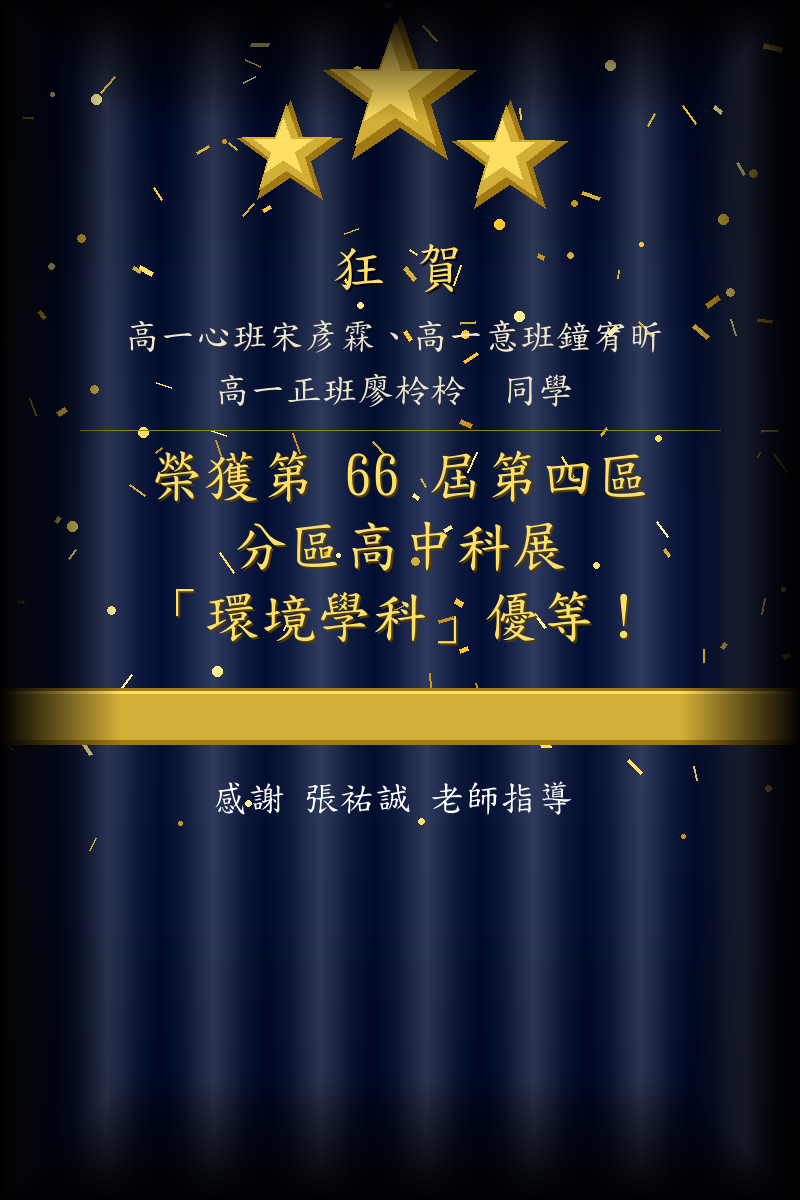
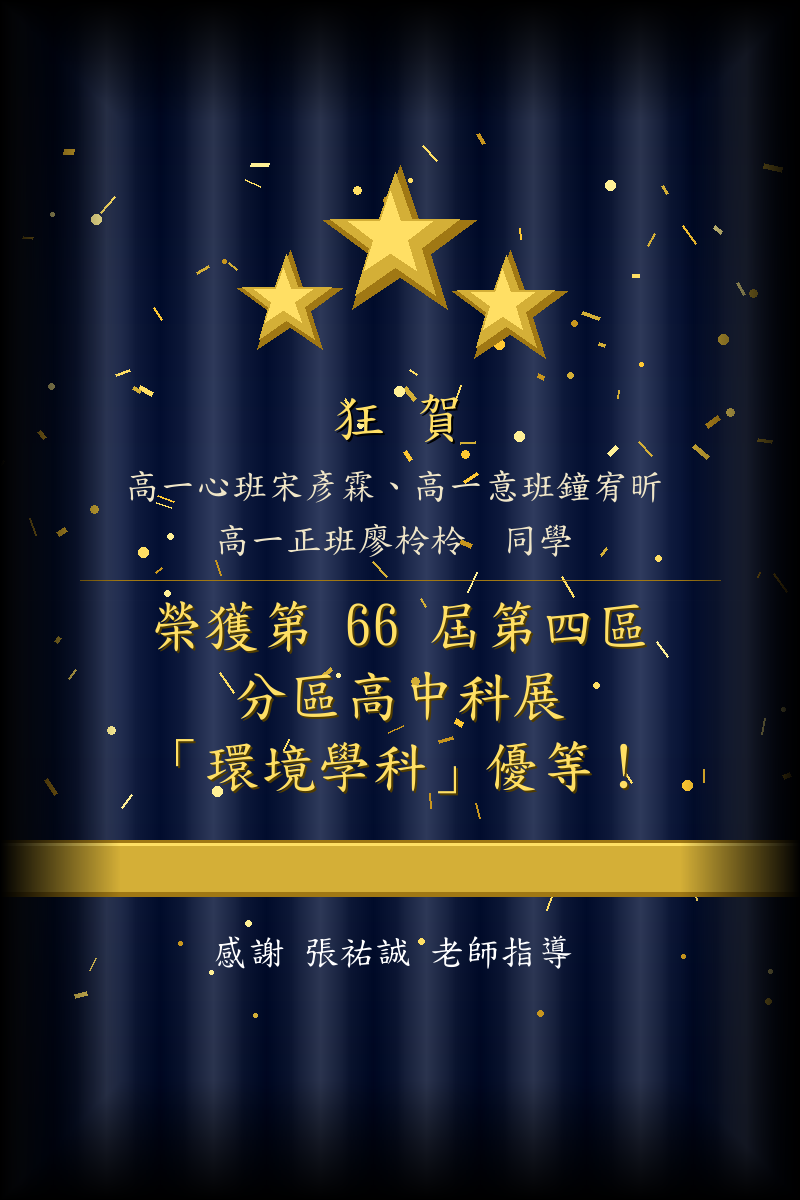
調整海報版面：內容整體下移、底部留白縮短

diff --git a/make_award_poster.py b/make_award_poster.py
@@ -63,7 +63,7 @@ def draw_confetti(draw, n=120):
     colors = [GOLD, GOLD_LIGHT, (255,200,50), (255,240,150), (200,150,30)]
     for _ in range(n):
         x = rng.randint(0, W)
-        y = rng.randint(0, int(H*0.7))
+        y = rng.randint(int(H*0.1), int(H*0.85))
         c = rng.choice(colors)
         kind = rng.randint(0, 2)
         if kind == 0:   # 小矩形彩帶
@@ -105,10 +105,10 @@ def draw_star_3d(draw, cx, cy, r_out, r_in):
     hi = star_polygon(cx-r_out*0.12, cy-r_out*0.12, r_out*0.55, r_in*0.55)
     draw.polygon(hi, fill=GOLD_LIGHT)
 
-# 三顆星：左小、右中、中大（頂部）
-draw_star_3d(draw, 290, 155, 55, 22)   # 左
-draw_star_3d(draw, 510, 160, 60, 24)   # 右
-draw_star_3d(draw, 400,  95, 80, 32)   # 中（最大，最高）
+# 三顆星：左小、右中、中大（整體下移 150px）
+draw_star_3d(draw, 290, 305, 55, 22)   # 左
+draw_star_3d(draw, 510, 310, 60, 24)   # 右
+draw_star_3d(draw, 400, 245, 80, 32)   # 中（最大，最高）
 
 # ── 5. 文字 ──────────────────────────────────────────────
 def centered_text(draw, text, y, font, fill):
@@ -129,22 +129,22 @@ f_achiev = load_font(56)
 f_thanks = load_font(36)
 
 # 「狂賀」
-shadow_text(draw, "狂 賀", 240, f_crazy, GOLD_LIGHT)
+shadow_text(draw, "狂 賀", 390, f_crazy, GOLD_LIGHT)
 
 # 學生姓名（兩行）
-centered_text(draw, "高一心班宋彥霖、高一意班鐘宥昕", 318, f_names, OFF_WHITE)
-centered_text(draw, "高一正班廖柃柃  同學", 372, f_names, OFF_WHITE)
+centered_text(draw, "高一心班宋彥霖、高一意班鐘宥昕", 468, f_names, OFF_WHITE)
+centered_text(draw, "高一正班廖柃柃  同學", 522, f_names, OFF_WHITE)
 
 # 分隔細線
-draw.line([(80, 430), (W-80, 430)], fill=GOLD_DARK, width=1)
+draw.line([(80, 580), (W-80, 580)], fill=GOLD_DARK, width=1)
 
 # 主要成就（金色大字）
-shadow_text(draw, "榮獲第 66 屆第四區", 448, f_achiev, GOLD_LIGHT, shadow=(80,60,0))
-shadow_text(draw, "分區高中科展", 518, f_achiev, GOLD_LIGHT, shadow=(80,60,0))
-shadow_text(draw, "「環境學科」優等！", 588, f_achiev, GOLD_LIGHT, shadow=(80,60,0))
+shadow_text(draw, "榮獲第 66 屆第四區", 598, f_achiev, GOLD_LIGHT, shadow=(80,60,0))
+shadow_text(draw, "分區高中科展", 668, f_achiev, GOLD_LIGHT, shadow=(80,60,0))
+shadow_text(draw, "「環境學科」優等！", 738, f_achiev, GOLD_LIGHT, shadow=(80,60,0))
 
 # ── 6. 金色橫條 ───────────────────────────────────────────
-bar_y = 688
+bar_y = 840
 draw.rectangle([0, bar_y, W, bar_y+56], fill=GOLD_DARK)
 draw.rectangle([0, bar_y+4, W, bar_y+52], fill=GOLD)
 # 橫條亮邊
@@ -152,7 +152,7 @@ draw.line([(0,bar_y+4),(W,bar_y+4)], fill=GOLD_LIGHT, width=3)
 draw.line([(0,bar_y+52),(W,bar_y+52)], fill=GOLD_DARK, width=2)
 
 # ── 7. 底部感謝文字 ───────────────────────────────────────
-centered_text(draw, "感謝 張祐誠 老師指導", 780, f_thanks, WHITE)
+centered_text(draw, "感謝 張祐誠 老師指導", 934, f_thanks, WHITE)
 
 # ── 8. 輕微暗角 ───────────────────────────────────────────
 vignette = Image.new("L", (W, H), 255)
